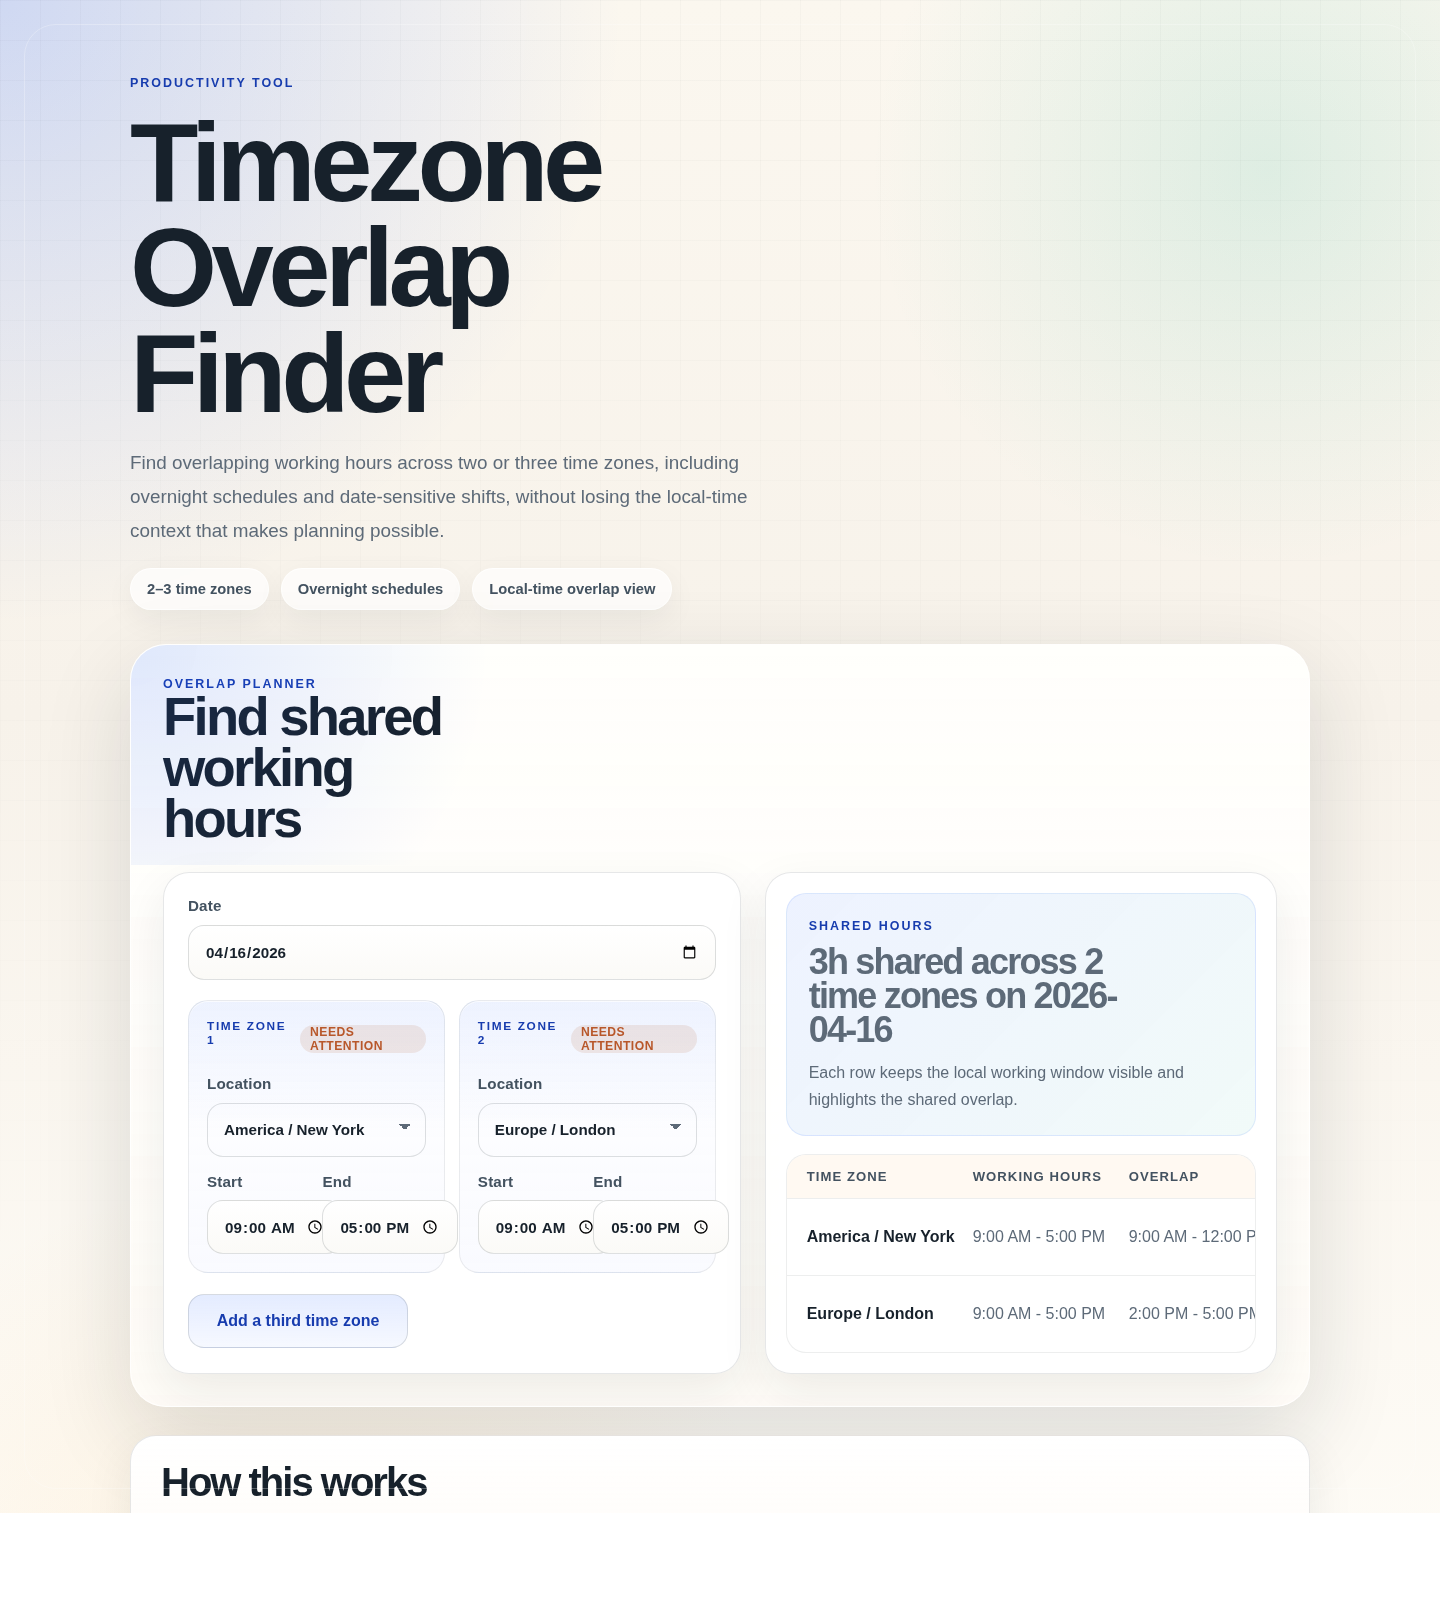
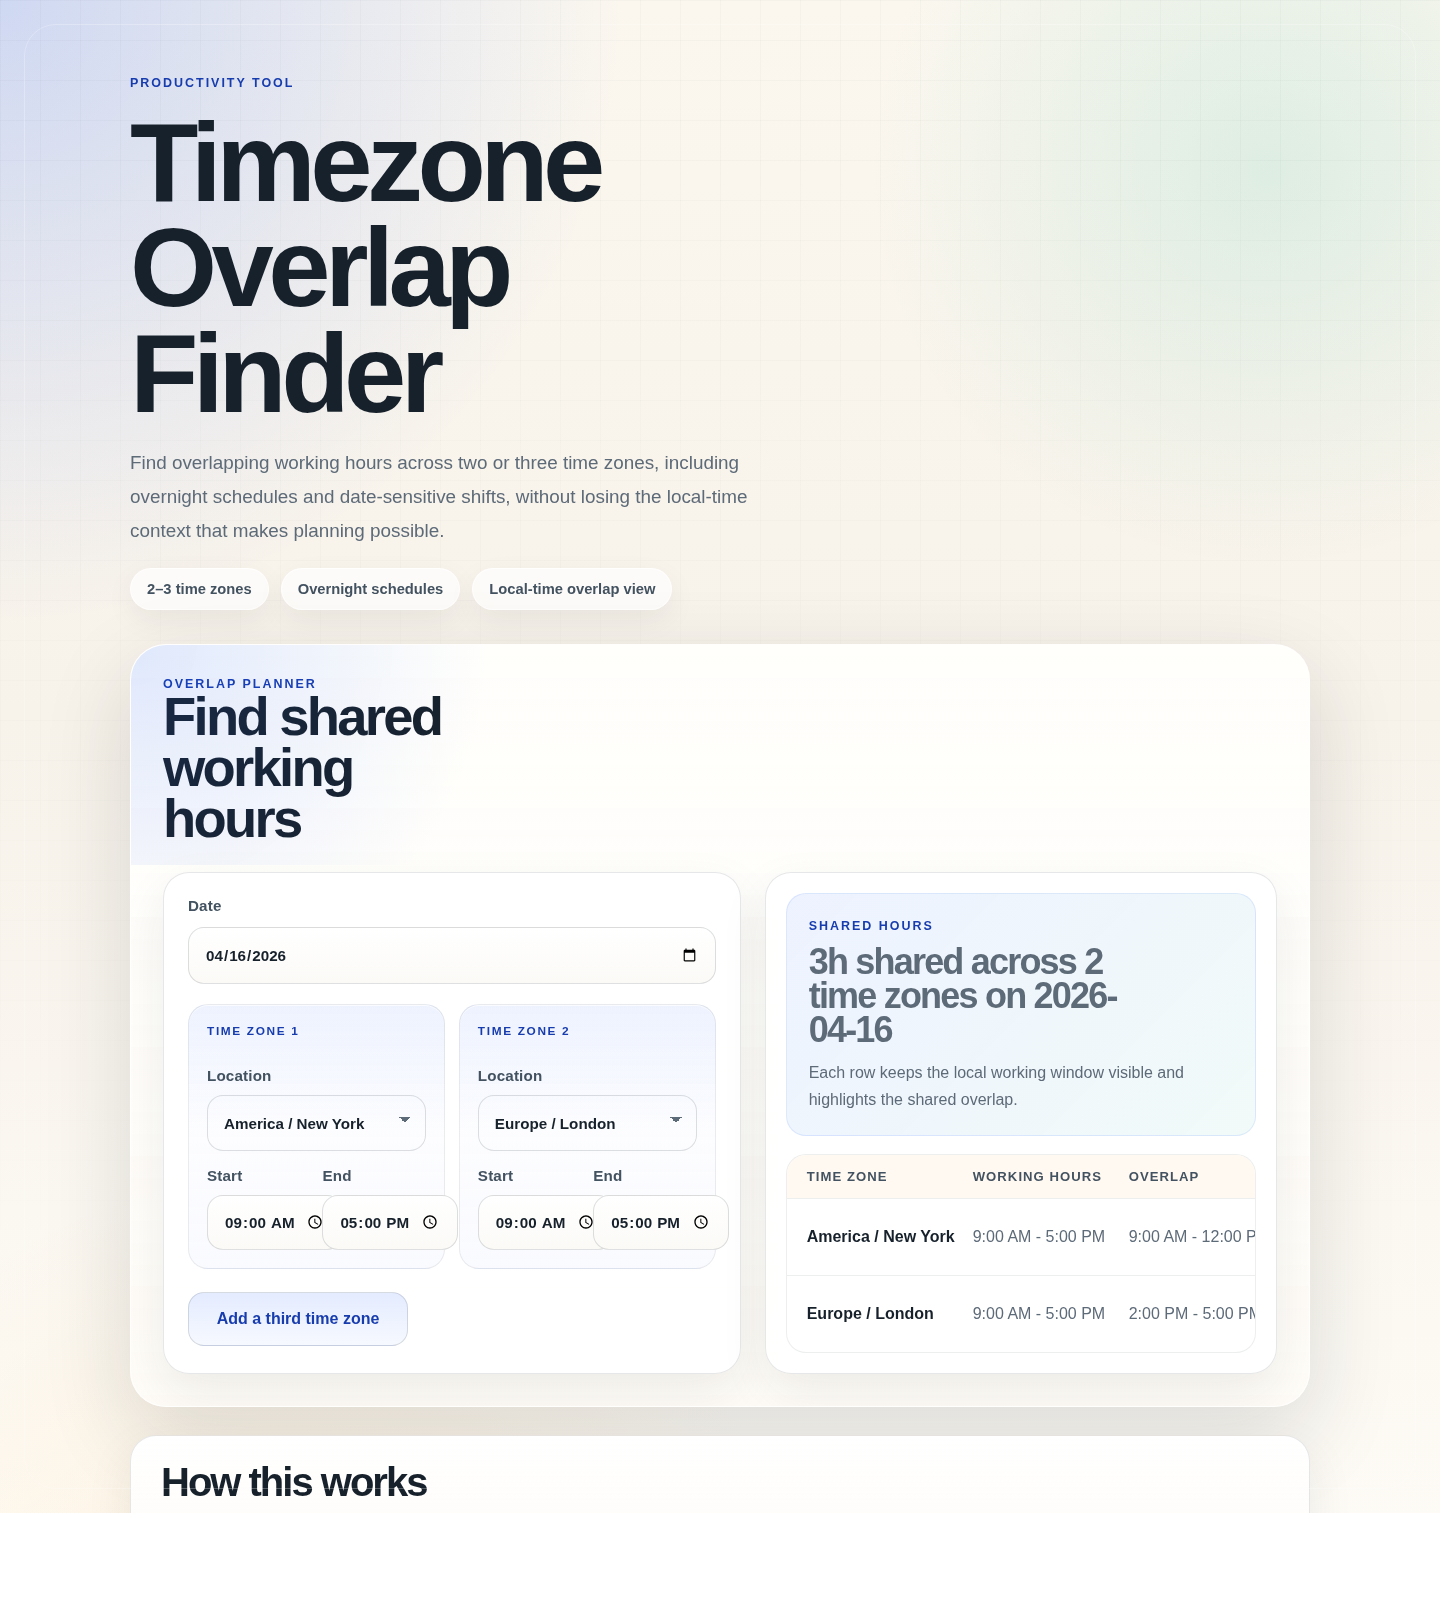
fix: restore hidden status badge behavior

Changed region(s): [[0.1562, 0.5938, 0.3125, 0.8438], [0.3438, 0.625, 0.5, 0.7812]]

diff --git a/styles.css b/styles.css
@@ -25,7 +25,7 @@
   --radius-lg: 26px;
   --radius-md: 20px;
   --radius-sm: 16px;
-  font-family: "Manrope", "Segoe UI", sans-serif;
+  font-family: "Segoe UI", Roboto, Helvetica, Arial, sans-serif;
 }
 
 *,
@@ -378,6 +378,10 @@ select {
   font-weight: 800;
   letter-spacing: 0.04em;
   text-transform: uppercase;
+}
+
+.time-zone-card__status[hidden] {
+  display: none;
 }
 
 .time-zone-card__times {
